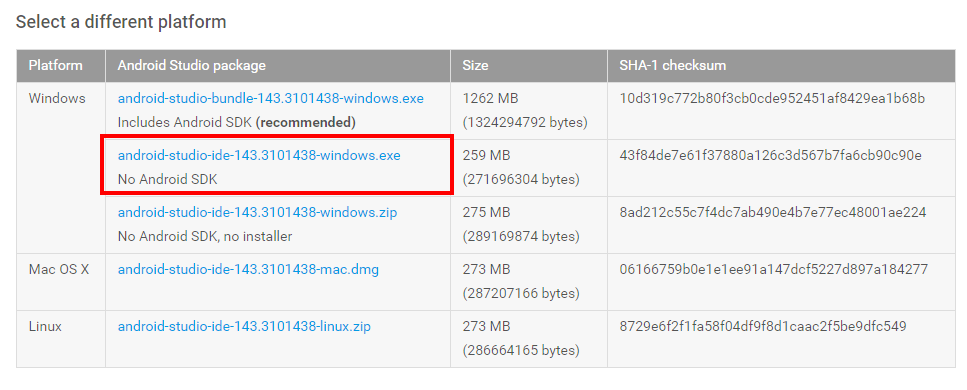
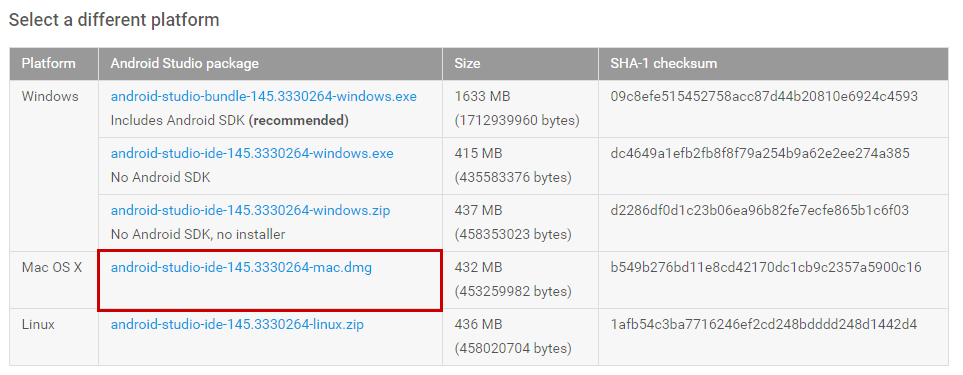
completed the ionic osx guide

diff --git a/_posts/2016/2016-10-18-ionic-v2-setup-osx.md b/_posts/2016/2016-10-18-ionic-v2-setup-osx.md
@@ -3,7 +3,7 @@ layout: post
 title: Ionic v2 - Setup on OSx
 published: true
 categories: [ionic]
-date: 2016-09-30 06:15
+date: 2016-10-18 06:15
 series: ionic2-setup
 excerpt: | 
     In order to work with the Ionic framework there is a bit of software installs and configuration that needs to happen in order to deploy to devices.  However, many of the guides out there leave out a number of steps that tripped me up when I first started using Ionic.  
@@ -29,7 +29,7 @@ For the first part of this tutorial, we will be installing everything to do Ioni
 ### Node 
 
 1. Download the LTS version of node from [https://www.nodejs.org](https://www.nodejs.org)
-        * If you are using Chrome to download, it may tell you that a file with a pkg extension could be harmful to your computer and ask if you want to keep the file.  Make sure to click on the keep button.
+    * If you are using Chrome to download, it may tell you that a file with a pkg extension could be harmful to your computer and ask if you want to keep the file.  Make sure to click on the keep button.
 1. After the download completes, double-click on the pkg file to run it
 1. Click Continue
 
@@ -60,7 +60,7 @@ For the first part of this tutorial, we will be installing everything to do Ioni
         node -v
         npm -v
 
-> As of the writing of this post, you should have gotten node v4.5.0 and npm 2.15.9
+> As of the writing of this post, you should have gotten node v4.6.0 and npm 2.15.9
 
 ### Npm Packages
 
@@ -68,21 +68,22 @@ Next we need to install 3 npm packages for cordova, gulp and ionic.  At the time
 
 1. Open a terminal and run the following commands to install the Global NPM packages that we need:
 
-        sudo npm install -g cordova
-        sudo npm install -g ionic
+        sudo npm install -g cordova ionic
 
-1. Open a terminal and run the following to verify that node and npm was installed and is available from the command line
+1. In the terminal run the following to verify that Cordova install correctly. As of the writing of this post, you should get Cordova version 6.3.1
 
         cordova -v
-        ionic -v
 
-> As of the writing of this post, you should have gotten cordova 6.3.1 and ionic 2.1.0
+    > When prompted with "May Cordova anonymously report usage statistics to improve the tool over time?", answer Yes or No depending on your preference.
+
+1. In the terminal run the following to verify that Ionic install correctly. As of the writing of this post, you should get Ionic version 2.1.0
+        
+        ionic -v
   
 ### Google Chrome
 
 >If you already have Google Chrome installed, you can skip this section.
 {:.warning}
-
 
 1. Download from  [https://www.google.com/chrome/browser/desktop/](https://www.google.com/chrome/browser/desktop/)
 1. Double click the dmg file to run it
@@ -128,7 +129,7 @@ Next we need to install 3 npm packages for cordova, gulp and ionic.  At the time
 ### Validating General Install Steps
 
 1. Open terminal
-1. Navigate the directory where you store you development projects (I use /users/[Your Username]/projects) 
+1. Navigate the directory where you store you development projects (I use ~/projects) 
 1. Run the following command to generate an ionic v2 project based on the tabs template
 
         ionic start todo tabs --v2
@@ -141,7 +142,7 @@ Next we need to install 3 npm packages for cordova, gulp and ionic.  At the time
 
 1. This will start up a node based web server and the --lab will tell it to launch a page that shows what the app would look like on an iOS, Android and Windows phone.  Granted the node based serve is about 80% accurate but good enough to do a majority of our testing.  Ultimately you should test on a device before releasing into the app stores.         
 
-At this point, we can create ionic projects and test them in a web browser.  Next we need to setup Android development and then we will setup iOS development.
+At this point, we can create ionic projects and test them in a web browser.  However, you have some more steps to complete in order to deploy to Android and iOS devices.
 
 ## Android Setup Steps
 
@@ -172,7 +173,7 @@ In this section, we will be installing everything that is needed in order to dep
 
     ![JDK8 Install Screen 6]({{ "jdk8-6.png" | prepend: imagedir }})
 
-1. Open a terminal and run the following to verify that you can run java from the command line
+1. Open a terminal and run the following to verify that you can run java from the command line.  As of this writing it should return javac 1.8.0_101
 
         javac -version
 
@@ -191,19 +192,34 @@ In this section, we will be installing everything that is needed in order to dep
 
         source ~/.bash_profile
 
-1. Test it by running
+1. Test that the $JAVA_HOME variable was set.  If should return /Library/Java/JavaVirtualMachines/jdk1.8.0_101.jdk/Contents/Home 
 
         echo $JAVA_HOME
 
-1. If a value comes back that return /Library/Java/JavaVirtualMachines/jdk1.8.0_101.jdk/Contents/Home than you are ready to move on.
 
 ### Android SDK
 	
-1. Download from [https://developer.android.com/studio/index.html#downloads](https://developer.android.com/studio/index.html#downloads_
+1. If you are using Safari to download files you need to change the preference to "open safe files after downloading" else Safari will automatically unzip the downloaded file into the Download folder and delete the zip file.  You can change this option by going into the preferences and unchecking the "Open safe files after downloading" box
+
+    ![uncheck open safe files after downloading]({{ "safari-2-uncheck.png" | prepend: imagedir }})   
+
+1. Download from [https://developer.android.com/studio/index.html#downloads](https://developer.android.com/studio/index.html#downloads)
+    * Version 24.4.1 as of this writing
+
+    ![android sdk download]({{ "android-sdk-1.png" | prepend: imagedir }})
+
+1. When prompt for the license agreement, check the "I have read and agree withthe above terms and conditions" box and then click on the "Download Android-SDK_R24.4.1-MACOSX.zip" button 
+
+    ![android sdk license agreement]({{ "android-sdk-2.png" | prepend: imagedir }})
+
+1. You can close the next dialog as it just tells you there is nothing else to do.  Close it by clicking on the X in the upper right of the dialog
+
+    ![nothing else to do dialog]( {{ "android-sdk-3.png" | prepend: imagedir }})
+
 1. Open a terminal
 1. Run the following to unzip the android sdk to the Development directory that is under your user home directory
 
-        unzip ~/Downloads/android-sdk_r24.4.1-macosx.zip -d ~//Development
+        mkdir ~/Library/Android && unzip ~/Downloads/android-sdk_r24.4.1-macosx.zip -d ~/Library/Android/sdk && mv ~/Library/Android/sdk/android-sdk-macosx/* ~/Library/Android/sdk && rmdir ~/Library/Android/sdk/android-sdk-macosx
 
 1. Open up the vi editor and edit your bash profile.  We need to add in the JAVA_HOME environment variable
 
@@ -211,7 +227,7 @@ In this section, we will be installing everything that is needed in order to dep
 
 1. To edit in vi hit `i` to enter edit mode and add the text below to the .bash_profile 
 
-        export PATH=${PATH}:~/Development/android-sdk-macosx/tools:~/Development/android-sdk-macosx/platform-tools
+        export PATH=${PATH}:~/Library/Android/sdk/tools:~/Library/Android/sdk/platform-tools
 
 1. Press the `esc` key to exit edit mode
 1. Press `:` (colon key) to enter command mode. 
@@ -220,18 +236,21 @@ In this section, we will be installing everything that is needed in order to dep
 
         source ~/.bash_profile
 
-1. Test it by running
+1. Test that the $PATH variable was updated.  The command below will return the $PATH variable and the end of the output should include the android-sdk-macosx/tools and android-sdk-macosx/platforms-tools directories.
 
         echo $PATH
 
-1. Make sure that the end of the path include the android-sdk-macosx directories that we added to the $PATH environment variable.
-1. Run the following to install the Android Apis
+1. Now that the Android SDK manager is installed we need to install the Android SDKs that we will be using
 
-        echo 'y' | android update sdk --filter tools,platform-tools,android-24,build-tools-24.0.1 --all --no-ui
+        echo 'y' | android update sdk --filter tools,platform-tools,build-tools-24.0.3,android-19,android-20,android-21,android-22,android-23,android-24,source-24 --all --no-ui
+
+    > Keep an eye on the output from this command.  I had it error downloading one of the packages a time or two and had to run the command a 2nd time. 
+    {:.warning}
 
 ### Android Studio
 	
-1. Download from [https://developer.android.com/studio/index.html#downloads](https://developer.android.com/studio/index.html#downloads).  Version 2.1.3 as of this writing.
+1. Download from [https://developer.android.com/studio/index.html#downloads](https://developer.android.com/studio/index.html#downloads)
+    * Version 2.2.1.0 as of this writing.
  
     ![Android Studio Download]({{"android-studio-download.png" | prepend: imagedir }})
 
@@ -256,7 +275,19 @@ In this section, we will be installing everything that is needed in order to dep
 
    ![Android Setup type.  select Standard]({{"android-studio-5.png" | prepend: imagedir }})
 
-1. ????? Complete me with screenshots and text ??????
+1. Most of the Android SDK items were installed as part of the Android SDK isntall but Android Studio has a couple of additional ones that it wants to install.  Click the Finish button to install them.
+
+    ![Android Studio Verify Settings]({{"android-studio-6.png" | prepend: imagedir }})
+
+1. It will take a few minutes to download the components
+
+    ![Android Studio download components]({{"android-studio-7.png" | prepend: imagedir }})
+
+1. When prompted for the HAXM installation, enter your user name and password then click Ok
+
+    ![HAXM installation user credential prompt]({{"android-studio-8.png" | prepend: imagedir }})
+
+1. When the install is completed, click the Finish button 
 
 ### Virtualbox 
 
@@ -291,18 +322,35 @@ In order to run the Genymotion emulator, we need to install Virtualbox.
 
     ![Virtualbox Install Completed]({{ "virtualbox-8.png" | prepend: imagedir }})
 
-1. In the Virtualbox Windows from the dmg file, double-click on the Applications, find Virtualbox and launch it.
+Now that Virtualbox is installed, we need to install the extension pack.
 
-    ![Virtualbox Run Application folder]({{"virtualbox-2.png" | prepend: imagedir }})
+1. Double click on the extension pack file that you downloaded earlier.
+1. Once Virtualbox is launched, it will ask you if you want to install the extension pack.  Click Install
+
+    ![vritualbox extension pack]({{"virtualbox-ext-1.png" | prepend: imagedir }})
+
+1. When the license agreement comes up, once you get to the bottom of it the "I Agree" button is enable for you to click it.
+
+    ![virtualbox license agreement]({{"virtualbox-ext-2.png" | prepend: imagedir }})
+
+1. When prompted input your username and password then click Ok
+
+    ![username and password prompt]({{"virtualbox-ext-3.png" | prepend: imagedir }})
+
+1. Once the install is completed, click the Ok button
+
+    ![virtualbox extension installed]({{"virtualbox-ext-4.png" | prepend: imagedir }})
+
 
 ### Genymotion 
 
-1. Download Genymotion from [https://www.genymotion.com/thank-you-freemium/](https://www.genymotion.com/thank-you-freemium/).  Version 2.7.2 as of this writing. 
-1.  Click the "Download Genymotion package"
+1. Download Genymotion from [https://www.genymotion.com/fun-zone/)[https://www.genymotion.com/fun-zone/]).  
+    * Version 2.7.2 as of this writing. 
+1.  Click the "Download Genymotion Personal Edition" button
 
     ![Genymotion Download Genymotion package button]({{"genymotion-download.png" | prepend: imagedir }})
     
-1. You will need to sign up for an account if you do not already have one
+1. Sign in to your Genymotion Account if you have one.  If not, then click on the Create Account button
 
     ![Genymotion Account signin]({{"genymotion-download-signin.png" | prepend: imagedir }})
 
@@ -310,7 +358,7 @@ In order to run the Genymotion emulator, we need to install Virtualbox.
 
     ![Genymotion download osx]({{"genymotion-download-osx.png" | prepend: imagedir }})
 
-1. Once Genymotion is downloaded, launch the dmg file
+1. Once Genymotion is downloaded, double click the genymotion-2.8.0.dmg file to launch the installer
 1. Drag Genymotion and Genymotion Shell to the Applications folder
 
     ![Genymotion copy to Applications folder]({{"genymotion-install-1.png" | prepend: imagedir }})
@@ -349,15 +397,49 @@ In order to run the Genymotion emulator, we need to install Virtualbox.
     
 ### Gradle
 
-1. Follow the Gradle install guide at [https://docs.gradle.org/current/userguide/installation.html](https://docs.gradle.org/current/userguide/installation.html)
+1. If you are using Safari to download files and you didn't change the preference to "open safe files after downloading" when you downloaded the Android SDK, you need to change it before downloading Gradle.  Go into the Safari preferences and uncheck the "Open safe files after downloading" box.  Without doing this, Safari will automatically unzip the downloaded file into the Download folder and delete the zip file.
+
+    ![uncheck open safe files after downloading]({{ "safari-2-uncheck.png" | prepend: imagedir }})   
+
+1. Download the Gradle Binary Only Distribution from [https://gradle.org/gradle-download/](https://gradle.org/gradle-download/) 
+
+    ![gradle download]({{ "gradle-1-download.png" | prepend: imagedir }})
+
+1. Open a terminal
+1. Run the following to unzip the android sdk to the Development directory that is under your user home directory
+
+        unzip ~/Downloads/gradle-3.1-bin.zip -d ~/Development
+
+1. Open up the vi editor and edit your bash profile.  We need to add in the GRADLE_HOME environment variable
+
+        vi ~/.bash_profile
+
+1. To edit in vi hit `i` to enter edit mode and add the text below to the .bash_profile 
+
+        export GRADLE_HOME=~/Development/gradle-3.1/bin
+
+1. Press the `esc` key to exit edit mode
+1. Press `:` (colon key) to enter command mode. 
+1. type `wq` and press enter to save and exit vi
+1. Run the following to make the change active in your existing session
+
+        source ~/.bash_profile
+
+1. Test it by running
+
+        echo $GRADLE_HOME
+     
 
 ### Verify Android Setup
 
-Next we are going to test our Android device setup.  The first thing we need to do is tell ionic that we want to add the Android platform to our todo app by running:
+Next we are going to test our Android device setup.  The first thing we need to do is tell ionic that we want to add the Android platform to our todo application that we created earlier.
+
+1. Open a terminal and navigate to ~/projects/todo
+1. Add the android platform
 
         ionic platform add android
 
-This sets up the todo app to be able to be build and deployed to an Android device.  To validate that we can build for Android, run the following:
+Now we need to validate that we can build for Android, run the following:
 
         ionic build android
 
@@ -367,15 +449,25 @@ The last thing we need to verify is that we can deploy the todo app to the Genym
 
         ionic run android
         
-You are now ready to go create your ionic applications.
-
+You are now ready to go create your ionic applications for the Android platform.  Continue with the guide to setup for developing for the iOS platform.
 
 ## iOS Setup Steps
 
 ### XCode
 
 1. Install Xcode from app store.  This will take awhile since it is ~2 gigs in size.
-	- Once install is completed, open xcode and accept the license
+1. Once install is completed, open xcode and accept the license
+    * If prompted to install additional required components, click Install
+
+        ![xcode additional components prompt]({{"xcode-1.png" | prepend: imagedir }})
+
+    * When prompted for credentials, enter username and password then click Ok
+
+        ![credentials for xcode install]({{"xcode-2.png" | prepend: imagedir }})
+
+    * It will take a few minutes to complete the install
+
+        ![installing xcode additional components]({{"xcode-3.png" | prepend: imagedir }})
 
 ### iOS Simulator
 
@@ -396,7 +488,7 @@ You are now ready to go create your ionic applications.
 ### Verifying iOS Setup
 
 1. Open terminal
-1. Navigate the directory where you store you development projects (I use /users/[Your Username]/projects) 
+1. Navigate the directory where you store you development projects (I use ~/projects) 
 1. Run the following command to generate an ionic v2 project based on the tabs template
 
      ionic start todo tabs --v2

diff --git a/presentations.md b/presentations.md
@@ -29,22 +29,22 @@ Over the next couple of months I worked on learning the ins and outs of [Nuget](
 
 ## Upcoming Speaking Engagements
 
+### Nothing Scheduled.  
+
+If you'd like me to come to your event or user group, [email](mailto:digitaldrummerj@gmail.com) or [tweet](http://twitter.com/digitaldrummerj) at me.
+
+<!--
 ### Music City Code <span> - Nashville, TN (August 18th-20th, 2016)</span>
 
 - [Gulp for the .Net Developer](#gulp)
 - [Conference Home Page](http://www.musiccitycode.com)
-
-### Silicon Valley Code Camp <span> - San Jose, CA (September 30th - October 2nd, 2016)</span>
-
-- [Data Driven Restful Api Creation Made Easy Breezy](#cloudapishootout)
-- [Ionic v2 Full-Day Workshop](#ionic)
-- [Conference Home Page](https://www.siliconvalley-codecamp.com/)
+-->
 
 <p>&nbsp;</p>
 
 ----
 
-## Presentation Details
+## Presentation Topics
 
 Below are all of the talks that I have given with links to the slides and any additional resources that I may have.
 
@@ -145,7 +145,6 @@ Slides: [http://slides.com/digitaldrummerj/data-driven-restful-api-creation-made
 
 #### Past Presentations
 
-* [Silicon Valley Code Camp <span> - San Jose, CA (October 1st and 2nd, 2016)</span>](https://www.siliconvalley-codecamp.com/)
 * [Nebraska Code Conference <span>- Lincoln, NE (May 18th-20th, 2016)</span>](http://nebraskacode.com)
 * [Ionic Denmark Meetup <span>- Denmark Arhus (Giving Remotely) (April 27th, 2016)</span>](http://www.meetup.com/ionicdenmark/events/228676467/)
 * [Ionic Denmark Meetup<span>- Denmark Copenhagen (Giving Remotely) (May 11th, 2016)</span>](http://www.meetup.com/ionicdenmark/events/229123265/)

diff --git a/_posts/2016/2016-10-18-ionic-v2-setup-windows.md b/_posts/2016/2016-10-18-ionic-v2-setup-windows.md
@@ -3,7 +3,7 @@ layout: post
 title: "Ionic v2 - How to setup on Windows"
 published: true
 categories: [ionic]
-date: 2016-09-30 06:00
+date: 2016-10-18 06:00
 series: ionic2-setup
 excerpt: | 
     In order to work with the Ionic framework version 2 there is a bit of software installs and configuration that needs to happen in order to deploy to devices.  However, many of the guides out there leave out a number of steps that tripped me up when I first started using Ionic.  
